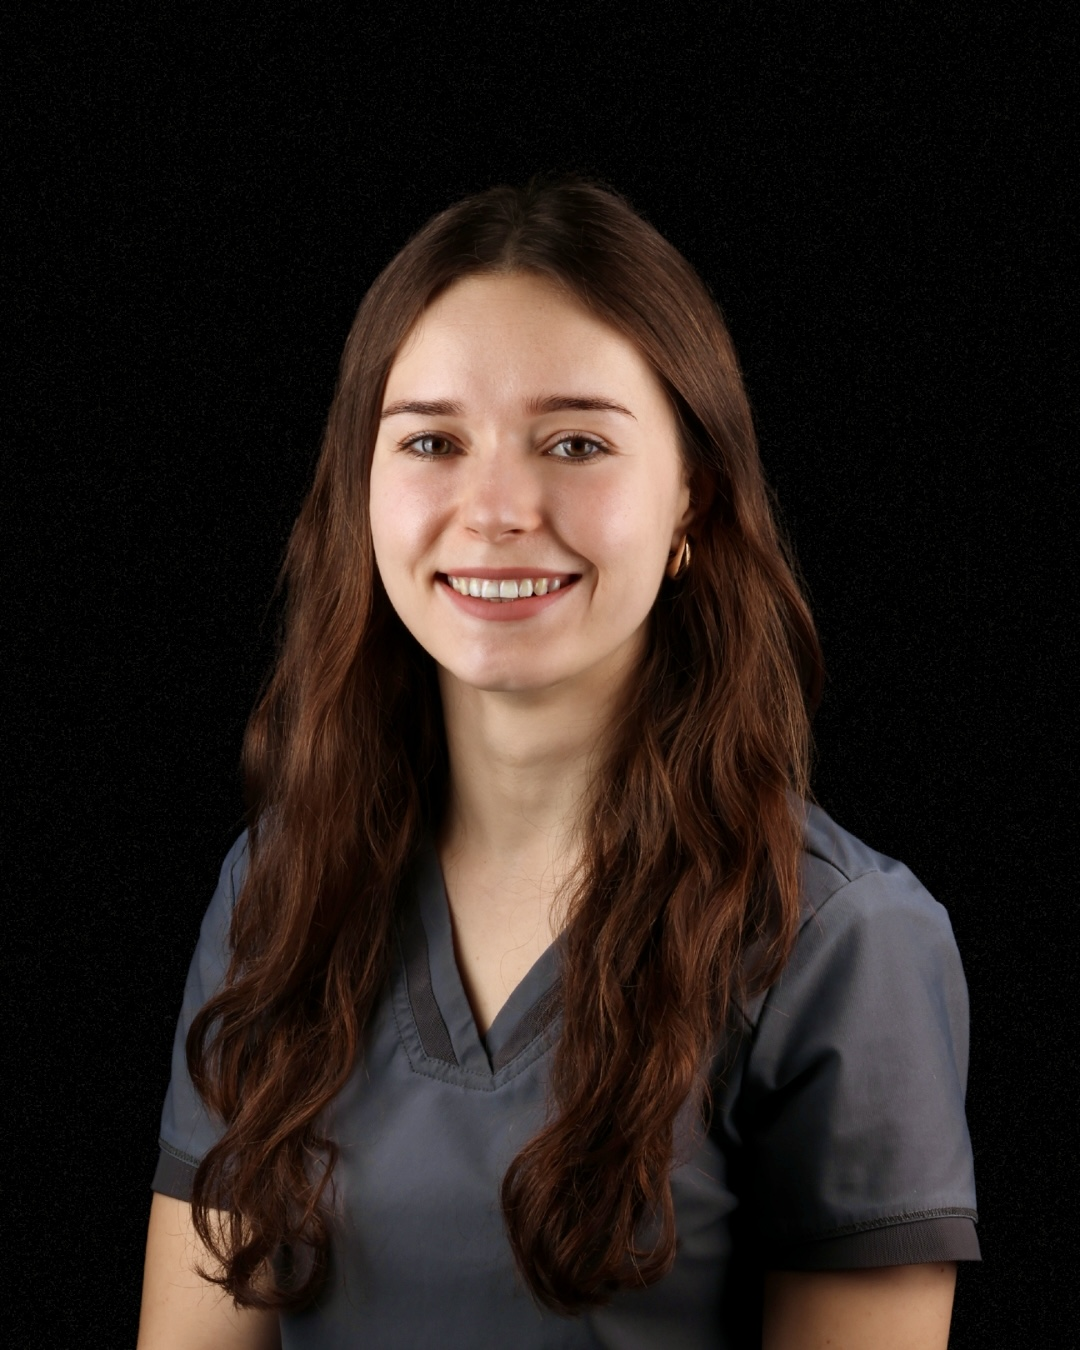
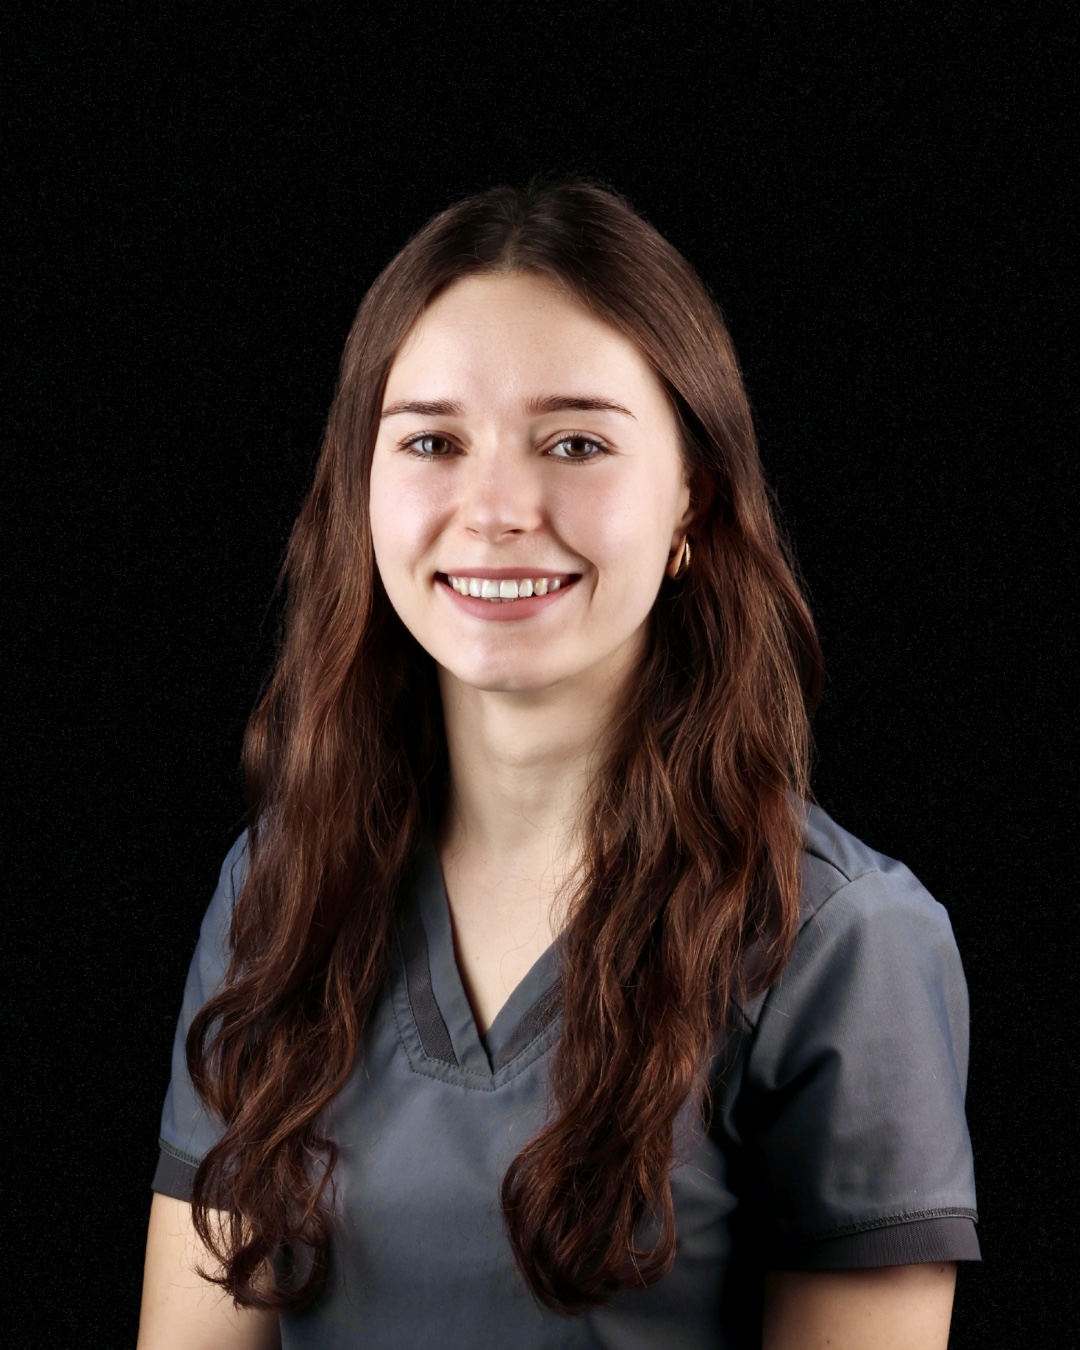
Refactor code structure for improved readability and maintainability

diff --git a/artifacts/beehive-dental/src/pages/services.tsx b/artifacts/beehive-dental/src/pages/services.tsx
@@ -1,5 +1,6 @@
 import { motion } from "framer-motion";
-import { Activity, ArrowRight, CheckCircle, HeartPulse, MapPin, Phone, Shield, Smile, Sparkles, Stethoscope, Syringe, Zap } from "lucide-react";
+import type { LucideIcon } from "lucide-react";
+import { Activity, ArrowRight, CheckCircle, MapPin, Phone, Shield, Smile, Stethoscope } from "lucide-react";
 import { Button } from "@/components/ui/button";
 import { Navigation } from "@/components/Navigation";
 import { Footer, FADE_UP } from "@/components/Footer";
@@ -11,12 +12,17 @@ import servicePhoto from "@assets/DSC00550.jpg";
 import orthoPhoto from "@assets/DSC00556.jpg";
 import clinicPhoto from "@assets/DSC00543.jpg";
 
-const STAGGER = {
-  hidden: { opacity: 0 },
-  visible: { opacity: 1, transition: { staggerChildren: 0.12 } },
+type ServiceGroup = {
+  icon: LucideIcon;
+  title: string;
+  desc: string;
+  items: string[];
+  image: string;
+  imageFrameClassName?: string;
+  imageClassName?: string;
 };
 
-const serviceGroups = [
+const serviceGroups: ServiceGroup[] = [
   {
     icon: Stethoscope,
     title: "Stomatologia zachowawcza i profilaktyka",
@@ -30,12 +36,14 @@ const serviceGroups = [
     desc: "Leczenie kanałowe, zabiegi chirurgiczne, implanty oraz diagnostyka radiologiczna wspierająca plan leczenia.",
     items: ["Leczenie kanałowe", "Chirurgia stomatologiczna", "Implantologia", "Zdjęcia RTG i tomografia"],
     image: clinicPhoto,
+    imageFrameClassName: "bg-muted p-4 md:p-6",
+    imageClassName: "object-contain rounded-xl",
   },
   {
     icon: Smile,
     title: "Protetyka, ortodoncja i estetyka",
-    desc: "Uzupełnienia protetyczne, leczenie ortodontyczne, stomatologia estetyczna oraz kosmetologia.",
-    items: ["Protetyka jednego dnia", "Ortodoncja", "Stomatologia estetyczna", "Kosmetologia"],
+    desc: "Uzupełnienia protetyczne, leczenie ortodontyczne oraz stomatologia estetyczna.",
+    items: ["Protetyka jednego dnia", "Ortodoncja", "Stomatologia estetyczna"],
     image: orthoPhoto,
   },
 ];
@@ -47,7 +55,7 @@ export default function Services() {
 
       <PageHero
         eyebrow="Usługi w Nowej Soli"
-        title="Kompleksowa stomatologia i kosmetologia"
+        title="Kompleksowa stomatologia"
         description="Pełna oferta zabiegów stomatologicznych: od profilaktyki i leczenia zachowawczego po implantologię, protetykę i ortodoncję."
         image={heroPhoto}
         alt="Usługi Przychodni Korona"
@@ -75,7 +83,7 @@ export default function Services() {
           <motion.div initial="hidden" whileInView="visible" viewport={{ once: true }} variants={FADE_UP} className="text-center max-w-3xl mx-auto mb-10 md:mb-16">
             <h2 className="text-3xl md:text-4xl font-semibold mb-4 text-foreground">Zakres leczenia</h2>
             <p className="text-base md:text-lg text-foreground/60">
-              Oferta została oparta o informacje z oficjalnej strony Przychodni Korona i obejmuje najważniejsze działy stomatologii oraz kosmetologii.
+              Najważniejsze obszary leczenia dostępne w Przychodni Korona.
             </p>
           </motion.div>
 
@@ -89,8 +97,8 @@ export default function Services() {
                 variants={FADE_UP}
                 className="grid lg:grid-cols-[1fr_1.2fr] gap-0 bg-card border border-border rounded-2xl md:rounded-3xl overflow-hidden shadow-sm"
               >
-                <div className={`${index % 2 === 1 ? "lg:order-2" : ""} min-h-[220px] md:min-h-[280px]`}>
-                  <img src={group.image} alt={group.title} className="w-full h-full object-cover" />
+                <div className={`${index % 2 === 1 ? "lg:order-2" : ""} h-[220px] md:h-[280px] lg:h-auto lg:min-h-[280px] overflow-hidden ${group.imageFrameClassName ?? ""}`}>
+                  <img src={group.image} alt={group.title} className={`w-full h-full ${group.imageClassName ?? "object-cover"}`} />
                 </div>
                 <div className="p-6 md:p-10 flex flex-col justify-center">
                   <div className="w-12 h-12 rounded-xl bg-primary/20 flex items-center justify-center mb-6 text-secondary">
@@ -110,38 +118,6 @@ export default function Services() {
               </motion.div>
             ))}
           </div>
-        </div>
-      </section>
-
-      <section className="py-16 md:py-24 bg-card border-y border-border/50">
-        <div className="max-w-7xl mx-auto px-5 sm:px-6">
-          <motion.div initial="hidden" whileInView="visible" viewport={{ once: true }} variants={STAGGER} className="grid md:grid-cols-3 gap-4 md:gap-8">
-            {[
-              {
-                icon: Zap,
-                title: "Diagnostyka cyfrowa",
-                desc: "W ofercie znajdują się cyfrowe zdjęcia panoramiczne, cefalometryczne oraz tomografia.",
-              },
-              {
-                icon: Syringe,
-                title: "Komfort leczenia",
-                desc: "Nowoczesne metody znieczulenia pomagają ograniczyć stres związany z wizytą.",
-              },
-              {
-                icon: HeartPulse,
-                title: "Pacjenci w każdym wieku",
-                desc: "Przychodnia prowadzi leczenie dzieci, dorosłych i pacjentów wymagających kompleksowej odbudowy.",
-              },
-            ].map((item) => (
-              <motion.div key={item.title} variants={FADE_UP} className="bg-background border border-border p-6 md:p-8 rounded-2xl md:rounded-3xl">
-                <div className="w-12 h-12 rounded-xl bg-primary/20 flex items-center justify-center mb-6 text-secondary">
-                  <item.icon className="w-6 h-6" />
-                </div>
-                <h3 className="text-xl font-semibold mb-3">{item.title}</h3>
-                <p className="text-foreground/70 leading-relaxed">{item.desc}</p>
-              </motion.div>
-            ))}
-          </motion.div>
         </div>
       </section>
 

diff --git a/artifacts/beehive-dental/src/pages/home.tsx b/artifacts/beehive-dental/src/pages/home.tsx
@@ -24,17 +24,32 @@ const serviceCards = [
   {
     icon: Stethoscope,
     title: "Stomatologia zachowawcza",
-    desc: "Leczenie próchnicy, odbudowy zębów, profilaktyka i regularne wizyty kontrolne dla dorosłych i dzieci.",
+    desc: 'Leczenie próchnicy i odbudowy zębów dorosłych i dzieci z możliwością wykorzystania gazu "rozweselającego".',
   },
   {
     icon: Activity,
-    title: "Endodoncja, protetyka i implantologia",
-    desc: "Leczenie kanałowe, uzupełnienia protetyczne, implanty oraz kompleksowa odbudowa braków zębowych.",
+    title: "Endodoncja",
+    desc: "Pierwotne i wtórne leczenie kanałowe z wykorzystaniem nowoczesnej technologii.",
   },
   {
     icon: Smile,
-    title: "Ortodoncja i kosmetologia",
-    desc: "Leczenie ortodontyczne, stomatologia estetyczna oraz zabiegi kosmetologiczne w jednym miejscu.",
+    title: "Protetyka i implantologia",
+    desc: "Uzupełnienia protetyczne oparte na zębach pacjentów i na implantach. Własne zaplecze techniczne daje możliwość nowego uśmiechu nawet w 1 dzień.",
+  },
+  {
+    icon: Sparkles,
+    title: "Ortodoncja",
+    desc: "Leczenie ortodontyczne przy użyciu aparatów stałych, nakładkowych oraz ruchomych. Profilaktyka ortodontyczna już od najmłodszych lat życia pacjenta.",
+  },
+  {
+    icon: Shield,
+    title: "Profilaktyka",
+    desc: "Wizyty kontrolne połączone z dokładnymi zabiegami higienizacyjnymi u wykwalifikowanych higienistek.",
+  },
+  {
+    icon: Clock,
+    title: "Nowoczesna diagnostyka i planowanie",
+    desc: "Nowoczesny sprzęt diagnostyczny, w tym tomografia komputerowa z możliwością skanu twarzy, własne studio zdjęciowe i skaner cyfrowy w celu najlepszego wyboru opcji leczenia.",
   },
 ];
 
@@ -44,9 +59,8 @@ export default function Home() {
       <Navigation />
 
       <PageHero
-        eyebrow={`${PRACTICE.cityDisplay}, ${PRACTICE.region}`}
-        title="Stomatologia i kosmetologia w Przychodni Korona"
-        description="Kompleksowa opieka stomatologiczna dla pacjentów w każdym wieku, prowadzona w kameralnej i komfortowej atmosferze."
+        title="Przychodnia Korona"
+        description="Kompleksowa opieka stomatologiczna dla pacjentów w każdym wieku w Nowej Soli, prowadzona w kameralnej i komfortowej atmosferze."
         image={heroPhoto}
         alt="Przychodnia Korona w Nowej Soli"
         height="home"
@@ -88,8 +102,8 @@ export default function Home() {
               <motion.ul variants={FADE_UP} className="mt-8 space-y-4">
                 {[
                   "Opieka stomatologiczna dla dorosłych i dzieci",
-                  "Diagnostyka RTG, leczenie kanałowe i protetyka",
-                  "Adres: ul. Krasińskiego 15, 67-100 Nowa Sól",
+                  "Pełen zakres usług stomatologicznych",
+                  "Najlepszy zespół profesjonalistów",
                 ].map((item) => (
                   <li key={item} className="flex items-start gap-3 text-foreground/80 font-medium">
                     <CheckCircle className="w-6 h-6 text-accent shrink-0 mt-0.5" />
@@ -130,20 +144,12 @@ export default function Home() {
       </section>
 
       <section className="py-16 md:py-24 bg-background">
-        <div className="max-w-7xl mx-auto px-5 sm:px-6 grid md:grid-cols-2 gap-5 md:gap-8">
+        <div className="max-w-7xl mx-auto px-5 sm:px-6">
           <motion.div initial="hidden" whileInView="visible" viewport={{ once: true }} variants={FADE_UP} className="bg-primary/20 border border-primary/30 p-6 md:p-10 rounded-2xl md:rounded-3xl">
             <Shield className="w-10 h-10 text-secondary mb-5" />
             <h3 className="text-2xl font-semibold mb-4 text-foreground">Komfort i bezpieczeństwo</h3>
             <p className="text-foreground/80 leading-relaxed text-base md:text-lg">
-              Przychodnia stawia na spokojną atmosferę wizyty, nowoczesną diagnostykę i rzetelne omówienie planu leczenia.
-            </p>
-          </motion.div>
-
-          <motion.div initial="hidden" whileInView="visible" viewport={{ once: true }} variants={FADE_UP} className="bg-secondary/20 border border-secondary/30 p-6 md:p-10 rounded-2xl md:rounded-3xl">
-            <Sparkles className="w-10 h-10 text-secondary mb-5" />
-            <h3 className="text-2xl font-semibold mb-4 text-foreground">Stomatologia i kosmetologia</h3>
-            <p className="text-foreground/80 leading-relaxed text-base md:text-lg">
-              Oferta łączy leczenie stomatologiczne z zabiegami estetycznymi, dzięki czemu pacjent może korzystać z wielu usług w jednej lokalizacji.
+              Stawiamy na spokojną atmosferę wizyty, nowoczesną diagnostykę i rzetelne omówienie planu leczenia. Na swoją kolej pacjenci czekają w dużej poczekalni zapewniającej wygodę i odpoczynek. Dla pacjentów przyjezdnych mamy zapewnione liczne miejsca parkingowe na terenie Przychodni.
             </p>
           </motion.div>
         </div>

diff --git a/artifacts/beehive-dental/src/pages/team.tsx b/artifacts/beehive-dental/src/pages/team.tsx
@@ -9,6 +9,7 @@ import { PageHero } from "@/components/PageHero";
 import { PRACTICE } from "@/lib/practice";
 
 import heroPhoto from "@assets/DSC_3503.jpg";
+import agnieszkaPhoto from "@assets/Agniszka_Kasperska_Grzechowiak.jpg";
 import aniaPhoto from "@assets/Ania.jpg";
 import bartekPhoto from "@assets/Bartek.jpg";
 import danutaPhoto from "@assets/Danuta.jpg";
@@ -19,6 +20,7 @@ import kamilaPhoto from "@assets/Kamila.jpg";
 import magdaDoctorPhoto from "@assets/Magda 2.jpg";
 import magdaTeamPhoto from "@assets/Magda.jpg";
 import sylwiaPhoto from "@assets/Sylwia.jpg";
+import tomaszPhoto from "@assets/Tomasz_Rewers.jpg";
 
 type Person = {
   name: string;
@@ -41,6 +43,7 @@ const doctors: Person[] = [
     name: "Tomasz Rewers",
     role: "lek. dent.",
     initials: "TR",
+    photo: tomaszPhoto,
     bio: "W Przychodni Korona zajmuje się przede wszystkim leczeniem endodontycznym pod mikroskopiem, protetyką, chirurgią oraz implantologią.",
     education: ["Uniwersytet Medyczny im. Piastów Śląskich we Wrocławiu"],
     focus: ["Endodoncja mikroskopowa", "Protetyka", "Chirurgia", "Implantologia"],
@@ -60,6 +63,7 @@ const doctors: Person[] = [
     name: "Agnieszka Kasperska-Grzechowiak",
     role: "lek. dent.",
     initials: "AK",
+    photo: agnieszkaPhoto,
     bio: "Prowadzi leczenie zachowawcze dzieci i dorosłych oraz zajmuje się protetyką ruchomą.",
     education: ["Uniwersytet Medyczny im. Karola Marcinkowskiego w Poznaniu"],
     focus: ["Stomatologia zachowawcza", "Stomatologia dziecięca", "Protetyka ruchoma"],

diff --git a/artifacts/beehive-dental/src/lib/practice.ts b/artifacts/beehive-dental/src/lib/practice.ts
@@ -1,15 +1,17 @@
 export const PRACTICE = {
   name: "Przychodnia Korona",
-  fullName: "Przychodnia Korona Stomatologia i Kosmetologia",
-  specialty: "Stomatologia i Kosmetologia",
+  fullName: "Przychodnia Korona",
+  specialty: "Stomatologia",
   city: "Nowa Sól",
   cityDisplay: "Nowa Sól",
   region: "woj. lubuskie",
   addressLines: ["ul. Krasińskiego 15", "67-100 Nowa Sól", "woj. lubuskie"],
-  phoneDisplay: "68 38 759 41",
-  phoneHref: "tel:+48683875941",
+  phoneDisplay: "507 130 845",
+  phoneHref: "tel:+48507130845",
   mobileDisplay: "507 130 845",
   mobileHref: "tel:+48507130845",
+  landlineDisplay: "68 38 759 41",
+  landlineHref: "tel:+48683875941",
   email: "przychodniakorona@interia.pl",
   emailHref: "mailto:przychodniakorona@interia.pl",
   website: "https://przychodniakorona.pl",
@@ -22,7 +24,7 @@ export const PRACTICE = {
     "https://www.google.com/maps/search/?api=1&query=ul.%20Krasi%C5%84skiego%2015%2C%2067-100%20Nowa%20S%C3%B3l",
   hours: [
     { days: "Poniedziałek - piątek", time: "8:00 - 19:00" },
-    { days: "Sobota", time: "9:00 - 13:00" },
+    { days: "Sobota", time: "w wybrane dni (konieczny kontakt tel.)" },
     { days: "Niedziela", time: "Nieczynne" },
   ],
 } as const;

diff --git a/artifacts/beehive-dental/src/components/PageHero.tsx b/artifacts/beehive-dental/src/components/PageHero.tsx
@@ -16,7 +16,7 @@ type PageHeroAction = {
 };
 
 type PageHeroProps = {
-  eyebrow: string;
+  eyebrow?: string;
   title: string;
   description: string;
   image: string;
@@ -106,9 +106,11 @@ export function PageHero({
 
       <div className="relative z-10 max-w-7xl mx-auto px-5 sm:px-6 w-full">
         <motion.div initial="hidden" animate="visible" variants={STAGGER} className="max-w-2xl">
-          <motion.div variants={FADE_UP} className="inline-flex items-center gap-2 px-3 py-1 rounded-full bg-primary/20 text-secondary border border-primary/30 text-sm font-medium mb-5 md:mb-6">
-            {eyebrow}
-          </motion.div>
+          {eyebrow && (
+            <motion.div variants={FADE_UP} className="inline-flex items-center gap-2 px-3 py-1 rounded-full bg-primary/20 text-secondary border border-primary/30 text-sm font-medium mb-5 md:mb-6">
+              {eyebrow}
+            </motion.div>
+          )}
           <motion.h1 variants={FADE_UP} className={cn(titleSizes[titleSize], "font-semibold text-foreground leading-[1.08] mb-5 md:mb-6")}>
             {title}
           </motion.h1>

diff --git a/artifacts/beehive-dental/src/pages/pricing.tsx b/artifacts/beehive-dental/src/pages/pricing.tsx
@@ -151,14 +151,6 @@ const priceSections: PriceSection[] = [
       { name: "Zdjęcia wewnątrz- i zewnątrzustne", price: "200-300 zł" },
     ],
   },
-  {
-    title: "Kosmetologia",
-    description: "Podstawowe pozycje dla zabiegów kosmetologicznych.",
-    items: [
-      { name: "Konsultacja kosmetologiczna", price: "150 zł" },
-      { name: "Zabieg kosmetologiczny", price: "od 250 zł", note: "cena zależna od rodzaju zabiegu" },
-    ],
-  },
 ];
 
 export default function Pricing() {
@@ -170,7 +162,7 @@ export default function Pricing() {
         <PageHero
           eyebrow="Cennik"
           title="Usługi i ceny"
-          description="Cennik usług stomatologicznych i kosmetologicznych przygotowany na podstawie zakresu oferty Przychodni Korona."
+          description="Cennik usług stomatologicznych przygotowany na podstawie zakresu oferty Przychodni Korona."
           image={heroPhoto}
           alt="Cennik Przychodni Korona"
           mobileObjectPosition="34% center"

diff --git a/artifacts/beehive-dental/src/components/Footer.tsx b/artifacts/beehive-dental/src/components/Footer.tsx
@@ -57,12 +57,6 @@ export function Footer() {
                     {PRACTICE.phoneDisplay}
                   </a>
                 </div>
-                <div className="flex items-center gap-2.5">
-                  <Phone className="w-4 h-4 text-[#C9A84C] shrink-0" />
-                  <a href={PRACTICE.mobileHref} className="text-white/70 hover:text-white transition-colors" data-testid="footer-mobile">
-                    {PRACTICE.mobileDisplay}
-                  </a>
-                </div>
               </div>
             </div>
 
@@ -98,7 +92,6 @@ export function Footer() {
                   "Chirurgia stomatologiczna",
                   "Protetyka",
                   "Ortodoncja",
-                  "Kosmetologia",
                 ].map((item) => (
                   <li key={item}>
                     <Link href="/services" className="text-white/60 hover:text-white transition-colors">

diff --git a/artifacts/beehive-dental/src/pages/new-patients.tsx b/artifacts/beehive-dental/src/pages/new-patients.tsx
@@ -54,7 +54,7 @@ export default function NewPatients() {
 
           <motion.div initial="hidden" whileInView="visible" viewport={{ once: true, margin: "-50px" }} variants={STAGGER} className="grid grid-cols-1 md:grid-cols-2 lg:grid-cols-4 gap-4 md:gap-8">
             {[
-              { icon: Phone, title: "Zadzwoń", desc: `Telefon: ${PRACTICE.phoneDisplay}. Dodatkowo dostępny jest GSM: ${PRACTICE.mobileDisplay}.` },
+              { icon: Phone, title: "Zadzwoń", desc: `Telefon komórkowy: ${PRACTICE.phoneDisplay}.` },
               { icon: Mail, title: "Napisz", desc: `E-mail rejestracji: ${PRACTICE.email}.` },
               { icon: Calendar, title: "Ustal termin", desc: "Rejestracja pomoże dobrać dogodną datę, godzinę i rodzaj wizyty." },
               { icon: FileText, title: "Przygotuj informacje", desc: "Przygotuj dane pacjenta, cel wizyty i informację o dotychczasowym leczeniu." },

diff --git a/artifacts/beehive-dental/src/App.tsx b/artifacts/beehive-dental/src/App.tsx
@@ -73,7 +73,7 @@ const SEO_BY_PATH: Record<string, typeof DEFAULT_SEO> = {
   "/contact": {
     title: "Kontakt | Przychodnia Korona Nowa Sól",
     description:
-      "Kontakt z Przychodnią Korona w Nowej Soli: ul. Krasińskiego 15, telefon 68 38 759 41. Gabinet stomatologiczny, ortodoncja, protetyka i implantologia.",
+      "Kontakt z Przychodnią Korona w Nowej Soli: ul. Krasińskiego 15, telefon komórkowy 507 130 845, telefon stacjonarny 68 38 759 41.",
     keywords:
       "Przychodnia Korona kontakt, dentysta Nowa Sól telefon, stomatolog Nowa Sól kontakt, ul. Krasińskiego 15 Nowa Sól",
   },

diff --git a/artifacts/beehive-dental/index.html b/artifacts/beehive-dental/index.html
@@ -36,7 +36,7 @@
         "url": "https://przychodniakorona.pl/",
         "image": "https://przychodniakorona.pl/opengraph.jpg",
         "description": "Gabinet stomatologiczny w Nowej Soli: stomatologia, ortodoncja, protetyka, implantologia, chirurgia stomatologiczna i diagnostyka.",
-        "telephone": "+48683875941",
+        "telephone": "+48507130845",
         "email": "przychodniakorona@interia.pl",
         "address": {
           "@type": "PostalAddress",

diff --git a/artifacts/beehive-dental/src/pages/contact.tsx b/artifacts/beehive-dental/src/pages/contact.tsx
@@ -16,15 +16,15 @@ const contactCards = [
   },
   {
     icon: Phone,
-    label: "Telefon",
+    label: "Telefon komórkowy",
     value: PRACTICE.phoneDisplay,
     href: PRACTICE.phoneHref,
   },
   {
     icon: Phone,
-    label: "GSM",
-    value: PRACTICE.mobileDisplay,
-    href: PRACTICE.mobileHref,
+    label: "Telefon stacjonarny",
+    value: PRACTICE.landlineDisplay,
+    href: PRACTICE.landlineHref,
   },
   {
     icon: Mail,
